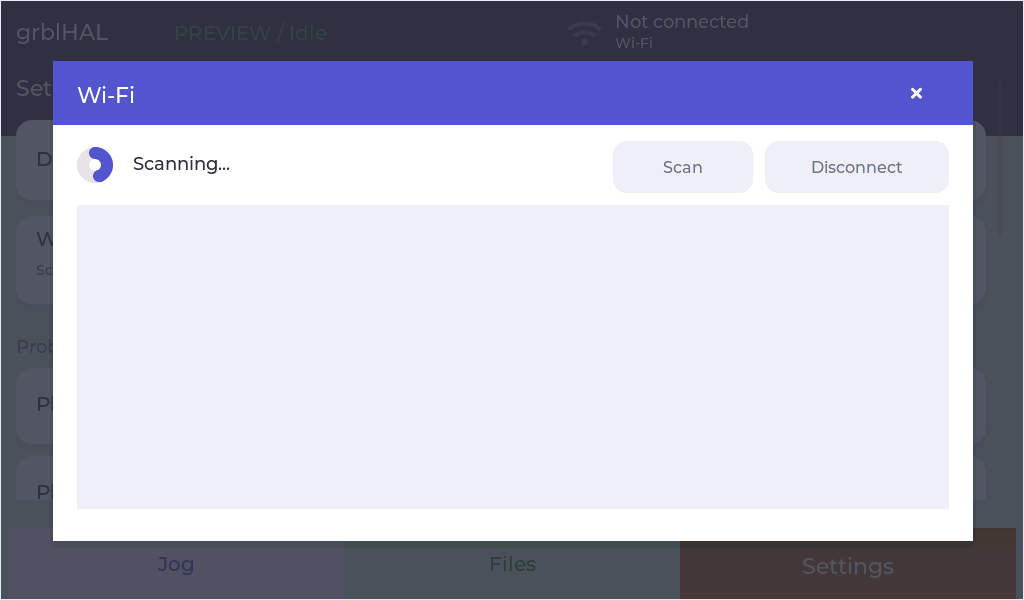
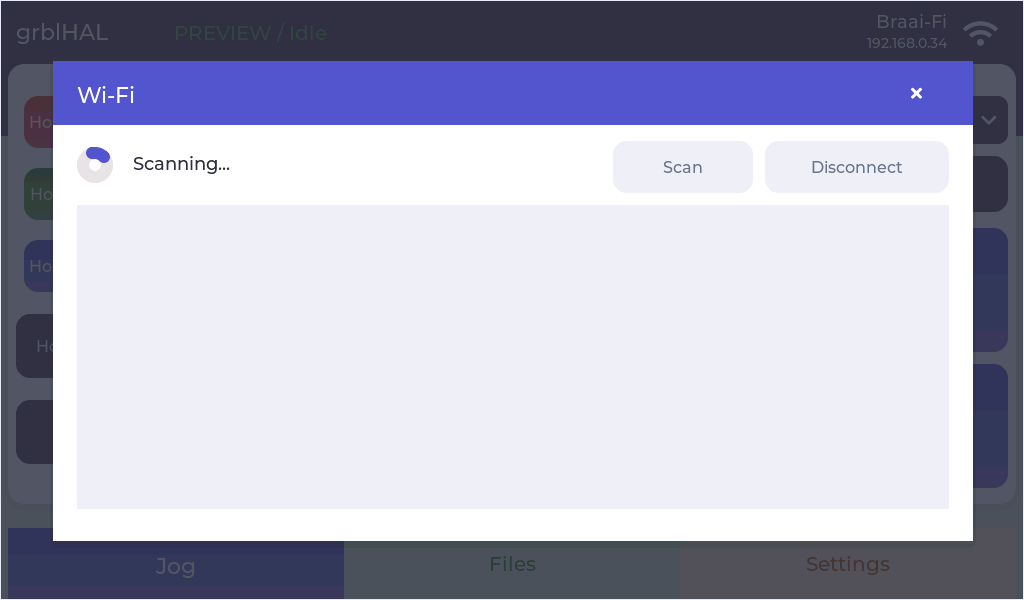
Align Wi-Fi header status to the right edge

diff --git a/firmware/viewesmart-p4/main/panel_ui.cpp b/firmware/viewesmart-p4/main/panel_ui.cpp
@@ -1208,10 +1208,12 @@ extern "C" void panel_ui_create() {
     lv_obj_delete(lv_obj_get_child(wifi_header, 0));
     lv_obj_set_style_bg_grad_dir(wifi_header, LV_GRAD_DIR_NONE, 0);
     lv_obj_set_style_shadow_width(wifi_header, 0, 0);
-    wifi_header_name = label(wifi_header, "Not connected", 64, 4, 380, 18, WHITE);
+    wifi_header_name = label(wifi_header, "Not connected", 16, 4, 380, 18, WHITE);
+    lv_obj_set_style_text_align(wifi_header_name, LV_TEXT_ALIGN_RIGHT, 0);
     lv_label_set_long_mode(wifi_header_name, LV_LABEL_LONG_DOT);
-    wifi_header_ip = label(wifi_header, "Wi-Fi", 64, 28, 380, 14, WHITE);
-    wifi_icon = label(wifi_header, LV_SYMBOL_WIFI, 16, 12, 40, 28, WHITE);
+    wifi_header_ip = label(wifi_header, "Wi-Fi", 16, 28, 380, 14, WHITE);
+    lv_obj_set_style_text_align(wifi_header_ip, LV_TEXT_ALIGN_RIGHT, 0);
+    wifi_icon = label(wifi_header, LV_SYMBOL_WIFI, 412, 12, 40, 28, WHITE);
     state_label = label(root, "Disconnected", 174, 22, 352, 20, MUTED);
     const char *tabs[] = {"Jog", "Files", "Settings"};
     tabview = lv_tabview_create(root);
